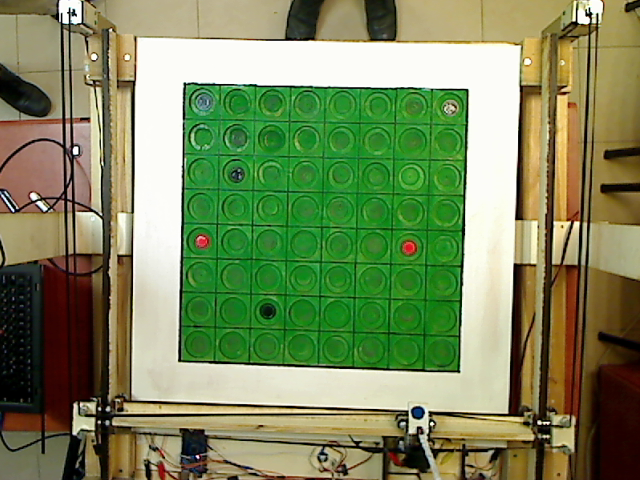
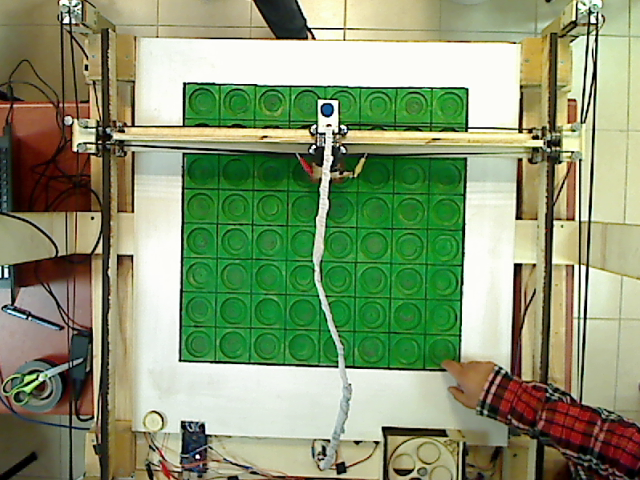
Basic CV of plotter

diff --git a/image_control_xy_movement.py b/image_control_xy_movement.py
@@ -7,7 +7,7 @@ import Camera as MyCamera
 import rotate
 import shit
 
-SHOW = True
+SHOW = False
 
 junk_string = "junk"
 
@@ -28,7 +28,7 @@ row6 = [(129, 306), (167, 305), (206, 306), (244, 305), (280, 305),
 row7 = [(129, 344), (168, 344), (205, 343), (244, 343), (281, 344),
         (317, 339), (357, 341), (393, 341)]
 # squares_pixels = [row0, row1, row2, row3, row4, row5, row6, row7]
-squares_pixels = np.load('measurment_ratios.npy')
+squares_pixels = np.load('measurement_final.npy')
 grey_threshold = 5
 
 
@@ -58,23 +58,23 @@ def extand_square_by_d(four_points, d):
 
 
 def save_blue_mask(frame, new_img_name):
-    POINTS = rotate.POINTS
-    print(POINTS)
-    POINTS = rotate.order_points(POINTS)
+    # POINTS = rotate.POINTS
+    # print(POINTS)
+    # POINTS = rotate.order_points(POINTS)
     # print(type(POINTS), POINTS.shape)
-    POINTS = extand_square_by_d(POINTS, 50)
+    # POINTS = extand_square_by_d(POINTS, 50)
     # print(type(POINTS))
     # print(POINTS.shape)
     # for i in POINTS:
     #     point = tuple(i)
     #     cv2.circle(frame, point, 2, (0, 0, 255), 3)
     # image_cutting.show_image(frame)
-    if type(POINTS) != np.ndarray:
-        POINTS = np.array(POINTS)
-    frame = rotate.four_point_transform(frame, POINTS)
+    # if type(POINTS) != np.ndarray:
+    # POINTS = np.array(POINTS)
+    # frame = rotate.four_point_transform(frame, POINTS)
     hsv = cv2.cvtColor(frame, cv2.COLOR_BGR2HSV)
-    lower_blue = np.array([100, 50, 50])
-    upper_blue = np.array([150, 250, 250])
+    lower_blue = np.array([100, 40, 40])
+    upper_blue = np.array([130, 250, 250])
 
     mask = cv2.inRange(hsv, lower_blue, upper_blue)
     kernel = np.ones((5, 5), np.uint8)
@@ -98,7 +98,7 @@ def get_center_of_masked_gray_pic(img, threshold_val=grey_threshold):
     column_count = 0
     for i in range(img.shape[0]):  # traverses through height of the image
         for j in range(img.shape[1]):  # traverses through width of the image
-            if img[i][j] > threshold_val and i > 15 and i < 360:
+            if img[i][j] > threshold_val and i > 35 and i < 400 and j>140 and j<500:
                 row_sum += i
                 column_sum += j
                 row_count += 1
@@ -124,7 +124,7 @@ def get_obj_location_pixels():
     # cv2.waitKey(0)
     img = save_blue_mask(img, 'find_center1.png')
     a = img.shape
-    return (get_center_of_masked_gray_pic(img, grey_threshold), a)
+    return get_center_of_masked_gray_pic(img, grey_threshold)
 
 
 def get_move_and_dist(square_num):
@@ -133,18 +133,17 @@ def get_move_and_dist(square_num):
     :param square_num: which square we want to go, look like: (x,y)
     :return: tuple indicate needed move in x, y in centimeters
     '''
-    obj_info = get_obj_location_pixels()
-    obj_loc = [obj_info[0][0], obj_info[0][1]]
-    frame_size = [obj_info[1][0], obj_info[1][1]]
-    print(obj_loc)
+    obj_loc = get_obj_location_pixels()
+    print('obj_loc = ', obj_loc)
     square_pixels = squares_pixels[square_num[0]][square_num[1]]
-    x_diff = obj_loc[1] - square_pixels[1] * frame_size[1]  # in pixels
-    y_diff = obj_loc[0] - square_pixels[0] * frame_size[0]  # in pixels
+    x_diff = obj_loc[1] - square_pixels[1]  # in pixels
+    y_diff = obj_loc[0] - square_pixels[0]  # in pixels
     # print('x_diff = ', x_diff)
     x_diff = convert_pixel_to_centimeter(x_diff)  # in centimeters
     y_diff = convert_pixel_to_centimeter(y_diff)  # in centimeters
     print('x_diff (cm) = ', x_diff)
     dist = math.sqrt(x_diff ** 2 + y_diff ** 2)
+    print('x_diff = ', x_diff.item(), 'y_diff = ', y_diff.item())
     return x_diff.item(), y_diff.item(), dist
 
 
@@ -180,6 +179,7 @@ def move_monitored(arduinoSerial, square_num):
         y_diff = cm_to_steps(y_diff)
         move_xy(arduinoSerial, x_diff, y_diff)
         # send_to_arduino_motors x_diff, y_diff and wait for response when they're done
+        time.sleep(1)
         move = get_move_and_dist(square_num)
         x_diff = move[0]
         y_diff = move[1]
@@ -187,15 +187,20 @@ def move_monitored(arduinoSerial, square_num):
 
 
 def move_xy(arduinoSerial, x_diff, y_diff):
-    string = "_movexy" + str(x_diff) + str(y_diff)
+    string = "_movexy" + str(x_diff) + "," + str(-y_diff)
     print("movexy string:", string)
+    # time.sleep(1)
     arduinoSerial.write(string.encode())
-    arduinoSerial.write(junk_string.encode())
+    # time.sleep(1)
+    while "done plotter_move_motors" not in str(arduinoSerial.readline().decode("utf-8")):
+        continue
+    # arduinoSerial.write(junk_string.encode())
     print("after movement")
 
 
 def save_indexes(file_name):
     array = np.load(file_name)
+    # array = np.load(file_name)
     # x = input("to continue press something- ")
     # obj_loc = get_obj_location_pixels()
     # array[4][1][0] = array[4][1][0]#obj_loc[0][0]
@@ -204,15 +209,15 @@ def save_indexes(file_name):
     # array[4][1][3] = obj_loc[1][1]  # x size of the image
     # np.save(file_name, array)
 
-    for i in range(5, 8):
-        for j in range(8):
+    for i in range(4, 8):
+        for j in range(0, 8):
             print(i, ",", j)
             x = input("to continue press something- ")
             obj_loc = get_obj_location_pixels()
-            array[i][j][0] = obj_loc[0][0]
-            array[i][j][1] = obj_loc[0][1]
-            array[i][j][2] = obj_loc[1][0]  # y size of the image
-            array[i][j][3] = obj_loc[1][1]  # x size of the image
+            array[i][j][0] = obj_loc[0]
+            array[i][j][1] = obj_loc[1]
+            # array[i][j][2] = obj_loc[1][0]  # y size of the image
+            # array[i][j][3] = obj_loc[1][1]  # x size of the image
             np.save(file_name, array)
 
 
@@ -221,9 +226,14 @@ if __name__ == '__main__':
     MyCamera.initialize_camera()
     print("camera is ready")
     time.sleep(2)
-    # save_indexes('measurement1.npy')
-    takePicture('for_palti_4.png')
-    # img = takePicture('find_blue2.png')
-    # # img = cv2.imread('find_blue2.png')
-    # img = save_blue_mask(img, 'findblue1_after.png',[[119, 34],[114, 313],[396, 324],[404, 41]])
-    # print(get_center_of_masked_gray_pic(img, grey_threshold))
+    arduinoName = 'COM6'
+    port = 9600
+    # global ArduinoSerial
+    arduinoSerial = serial.Serial(arduinoName, port)
+
+    # print(get_obj_location_pixels())
+    get_move_and_dist((1, 2))
+    move_monitored(arduinoSerial, (3, 6))
+    move_monitored(arduinoSerial, (5, 5))
+    # save_indexes('measurement_final.npy')
+    # takePicture('yam_test.png')

diff --git a/Main.py b/Main.py
@@ -133,6 +133,7 @@ if __name__ == '__main__':
         # TODO
         # frame = shit.cut_edges(frame, CUT_R)
         points = rotate.find_points(cv2.cvtColor(frame, cv2.COLOR_RGB2GRAY), 0.05)
+        # print(points)
         if type(points) != np.ndarray:
             continue
         rotate.draw_points(points, frame)
@@ -196,7 +197,7 @@ if __name__ == '__main__':
             # put_down(our_move)  # drops
             # move_monitored(arduinoSerial, end_point_in_board)
             # # take_disk()  # take disk for the next move
-            # last_board = next_board  # board for next move
+            last_board = next_board  # board for next move
         else:
             pass
         # if game done - break

diff --git a/try.py b/try.py
@@ -1,6 +1,6 @@
 
 import numpy as np
-arr = np.load('measurment_ratios.npy')
+arr = np.load('measurement_final.npy')
 print(arr)
 # arr_new = np.zeros((8, 8, 2))
 # for i in range(8):

diff --git a/new_move_detaction.py b/new_move_detaction.py
@@ -4,7 +4,7 @@ import Camera
 import cv2
 import numpy as np
 import rotate
-sdThresh = 0.11
+sdThresh = 0.095
 x_min = 143
 x_max = 514
 y_min = 43
